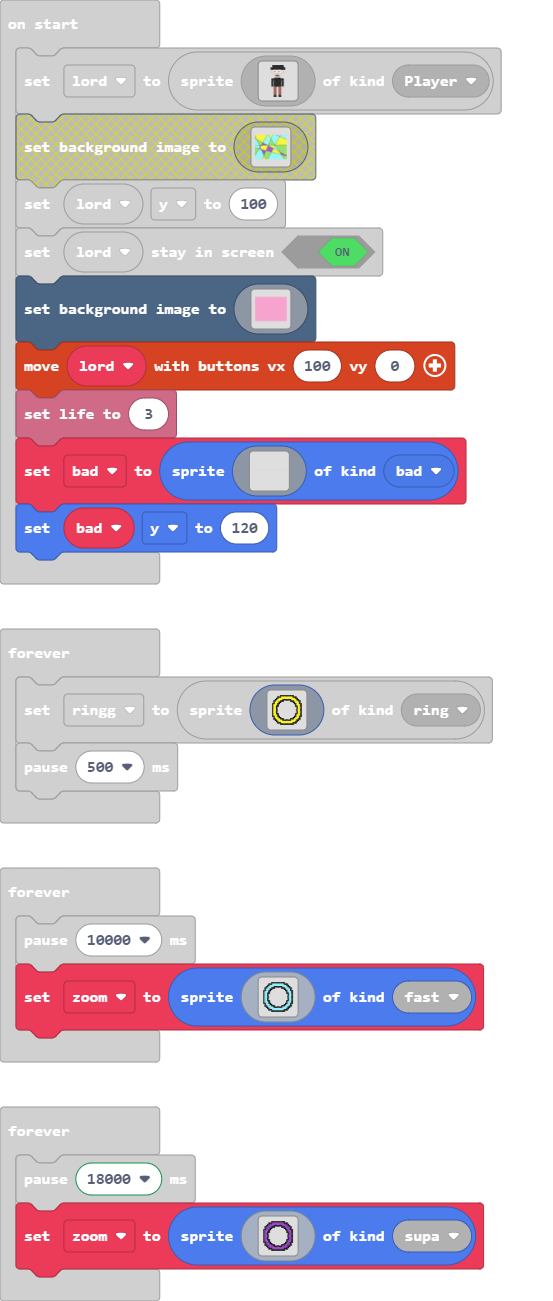
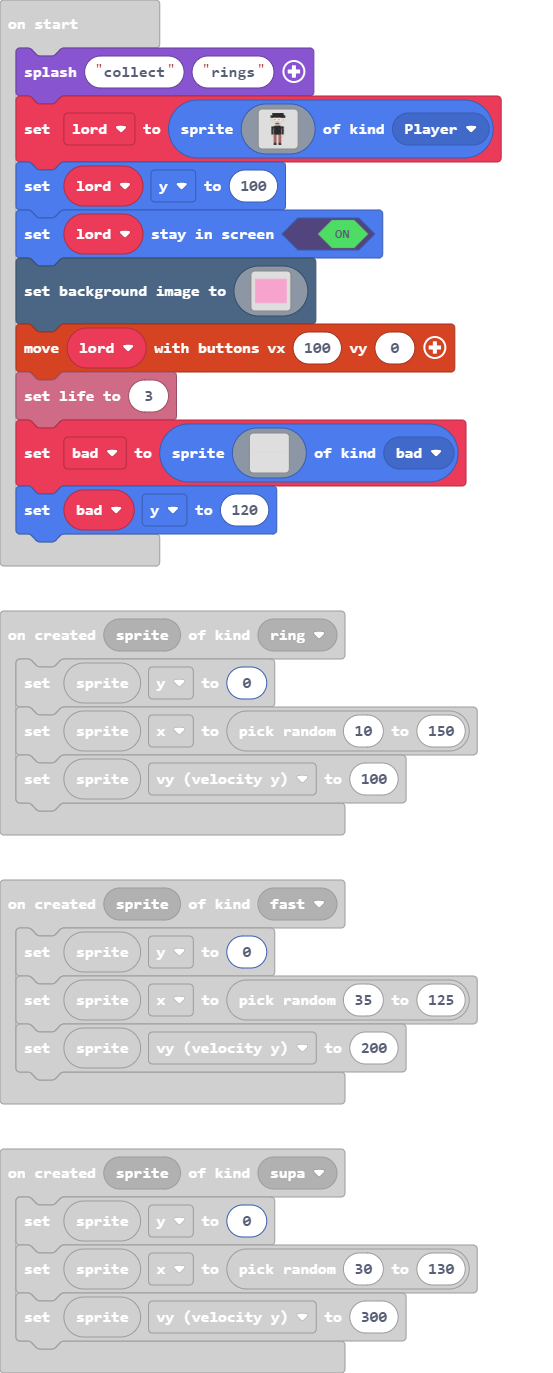
Update main.blocks, main.ts

diff --git a/main.ts b/main.ts
@@ -10,7 +10,7 @@ sprites.onOverlap(SpriteKind.Player, SpriteKind.supa, function (sprite, otherSpr
     info.changeScoreBy(3)
 })
 sprites.onCreated(SpriteKind.ring, function (sprite) {
-    sprite.y = 5
+    sprite.y = 0
     sprite.x = randint(10, 150)
     sprite.vy = 100
 })
@@ -19,7 +19,7 @@ sprites.onOverlap(SpriteKind.ring, SpriteKind.bad, function (sprite, otherSprite
     info.changeScoreBy(-1)
 })
 sprites.onCreated(SpriteKind.fast, function (sprite) {
-    sprite.y = 5
+    sprite.y = 0
     sprite.x = randint(35, 125)
     sprite.vy = 200
 })
@@ -28,7 +28,7 @@ sprites.onOverlap(SpriteKind.Player, SpriteKind.fast, function (sprite, otherSpr
     info.changeScoreBy(2)
 })
 sprites.onCreated(SpriteKind.supa, function (sprite) {
-    sprite.y = 5
+    sprite.y = 0
     sprite.x = randint(30, 130)
     sprite.vy = 300
 })
@@ -42,6 +42,7 @@ sprites.onOverlap(SpriteKind.fast, SpriteKind.bad, function (sprite, otherSprite
 })
 let zoom: Sprite = null
 let ringg: Sprite = null
+game.splash("collect", "rings")
 let lord = sprites.create(img`
     ....ffffffffffffff...
     ....ffffffffffffff...
